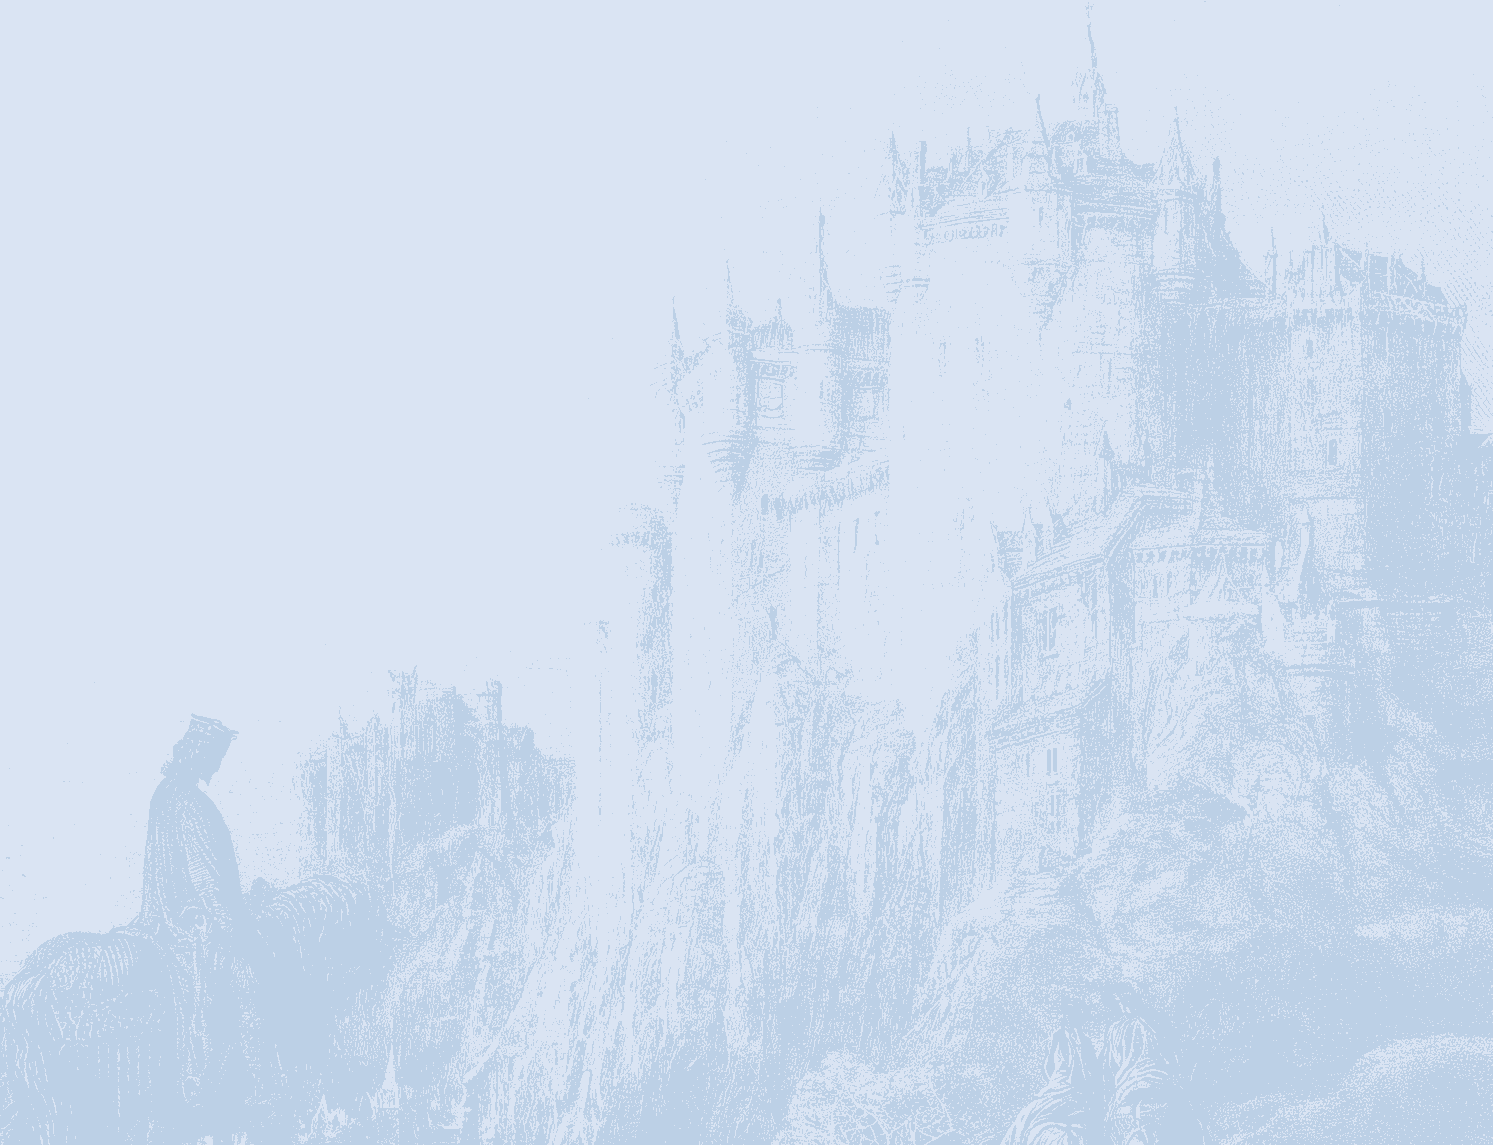
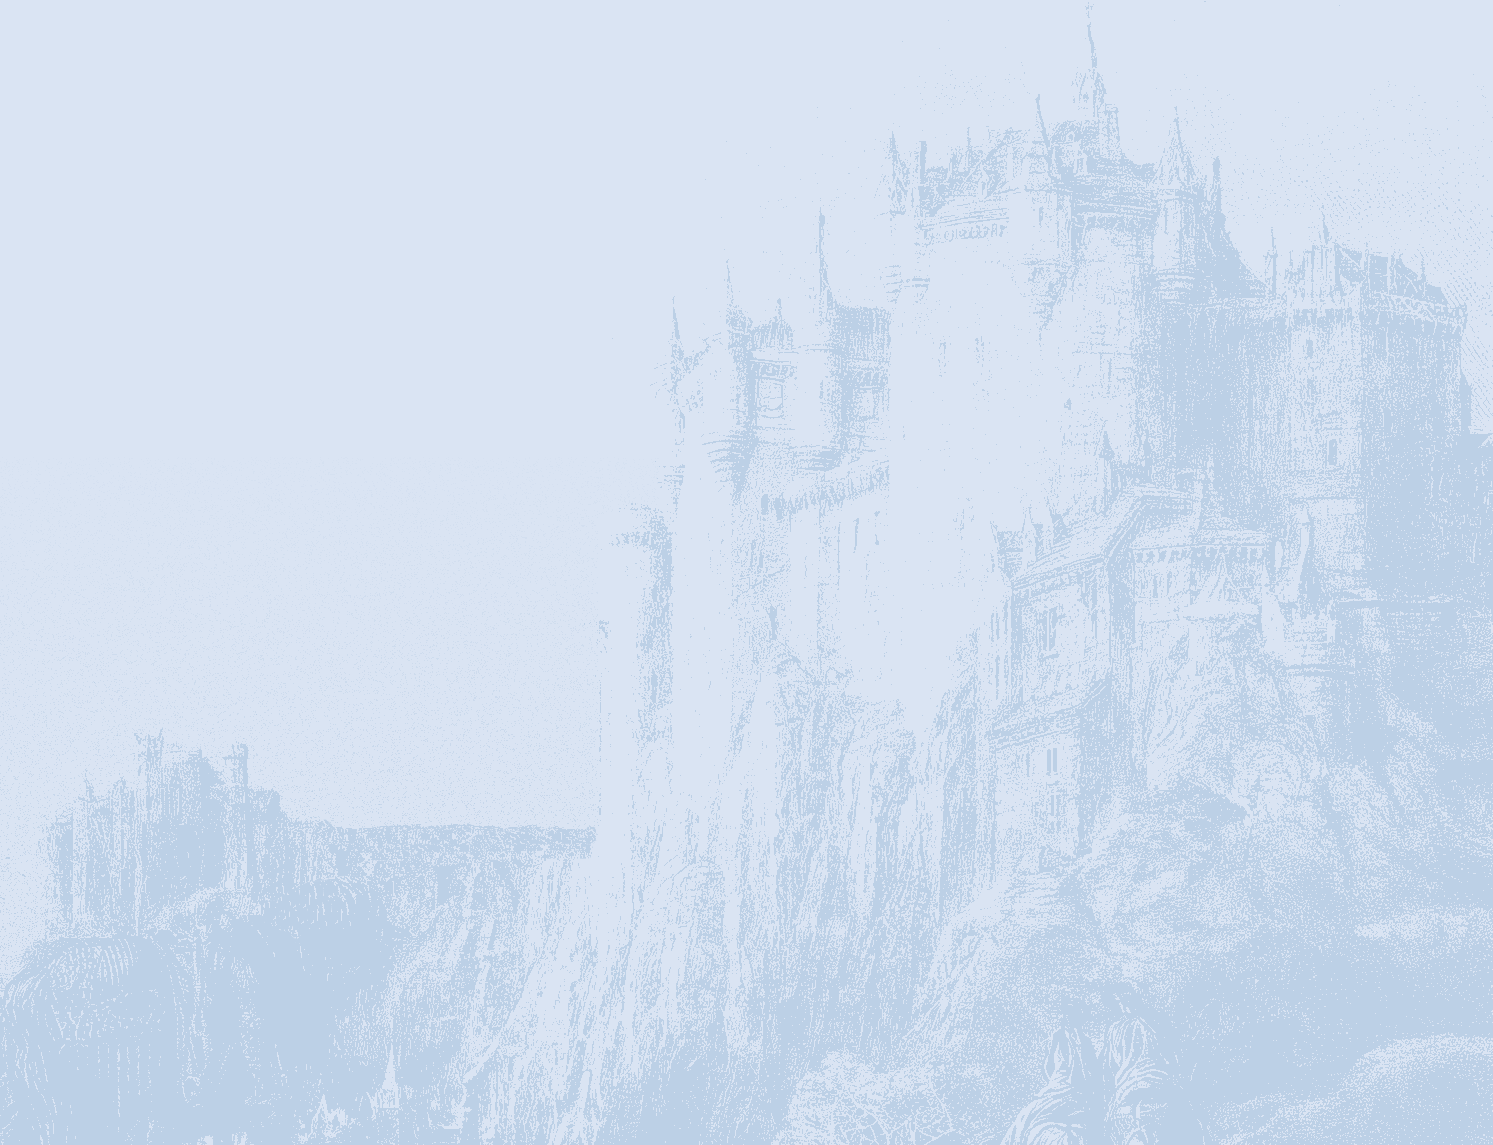
Update upscaled k3 background

Changed region(s): [[0.0308, 0.5808, 0.4005, 0.8253], [0.0, 0.8253, 0.0308, 0.8559]]

diff --git a/index.html b/index.html
@@ -20,7 +20,7 @@
 
     <link rel="shortcut icon" href="assets/img/favicon.ico" type="image/x-icon">
     <link rel="preload" as="image" href="assets/img/upscaledk3-palette.png" fetchpriority="high">
-    <link rel="stylesheet" type="text/css" href="assets/css/stylesheet.css?v=static-41">
+    <link rel="stylesheet" type="text/css" href="assets/css/stylesheet.css?v=static-42">
 
     <script async src="https://www.googletagmanager.com/gtag/js?id=G-GFYR03EPD9"></script>
     <script>
@@ -170,9 +170,9 @@
     <img class="egg hidden unselectable egg-howard" id="howard" draggable="false" src="assets/img/howard.gif" alt="">
     <img class="egg hidden unselectable egg-gaster" id="gaster" draggable="false" src="assets/img/gaster.gif" alt="">
 
-    <script src="assets/js/distort_background.js?v=static-41"></script>
-    <script src="assets/js/research_orb.js?v=static-41"></script>
-    <script src="assets/js/site.js?v=static-41"></script>
+    <script src="assets/js/distort_background.js?v=static-42"></script>
+    <script src="assets/js/research_orb.js?v=static-42"></script>
+    <script src="assets/js/site.js?v=static-42"></script>
     <script type="text/javascript" id="mapmyvisitors" src="https://mapmyvisitors.com/map.js?cl=0e1633&amp;w=700&amp;t=t&amp;d=Zafdp7ft2cDE4aSunDpTfezHWG9zBmB8OkmxY7M4hIo&amp;co=0b4975&amp;cmo=2f840f&amp;cmn=cc3a3a&amp;ct=cdd4d9"></script>
   </body>
 </html>
